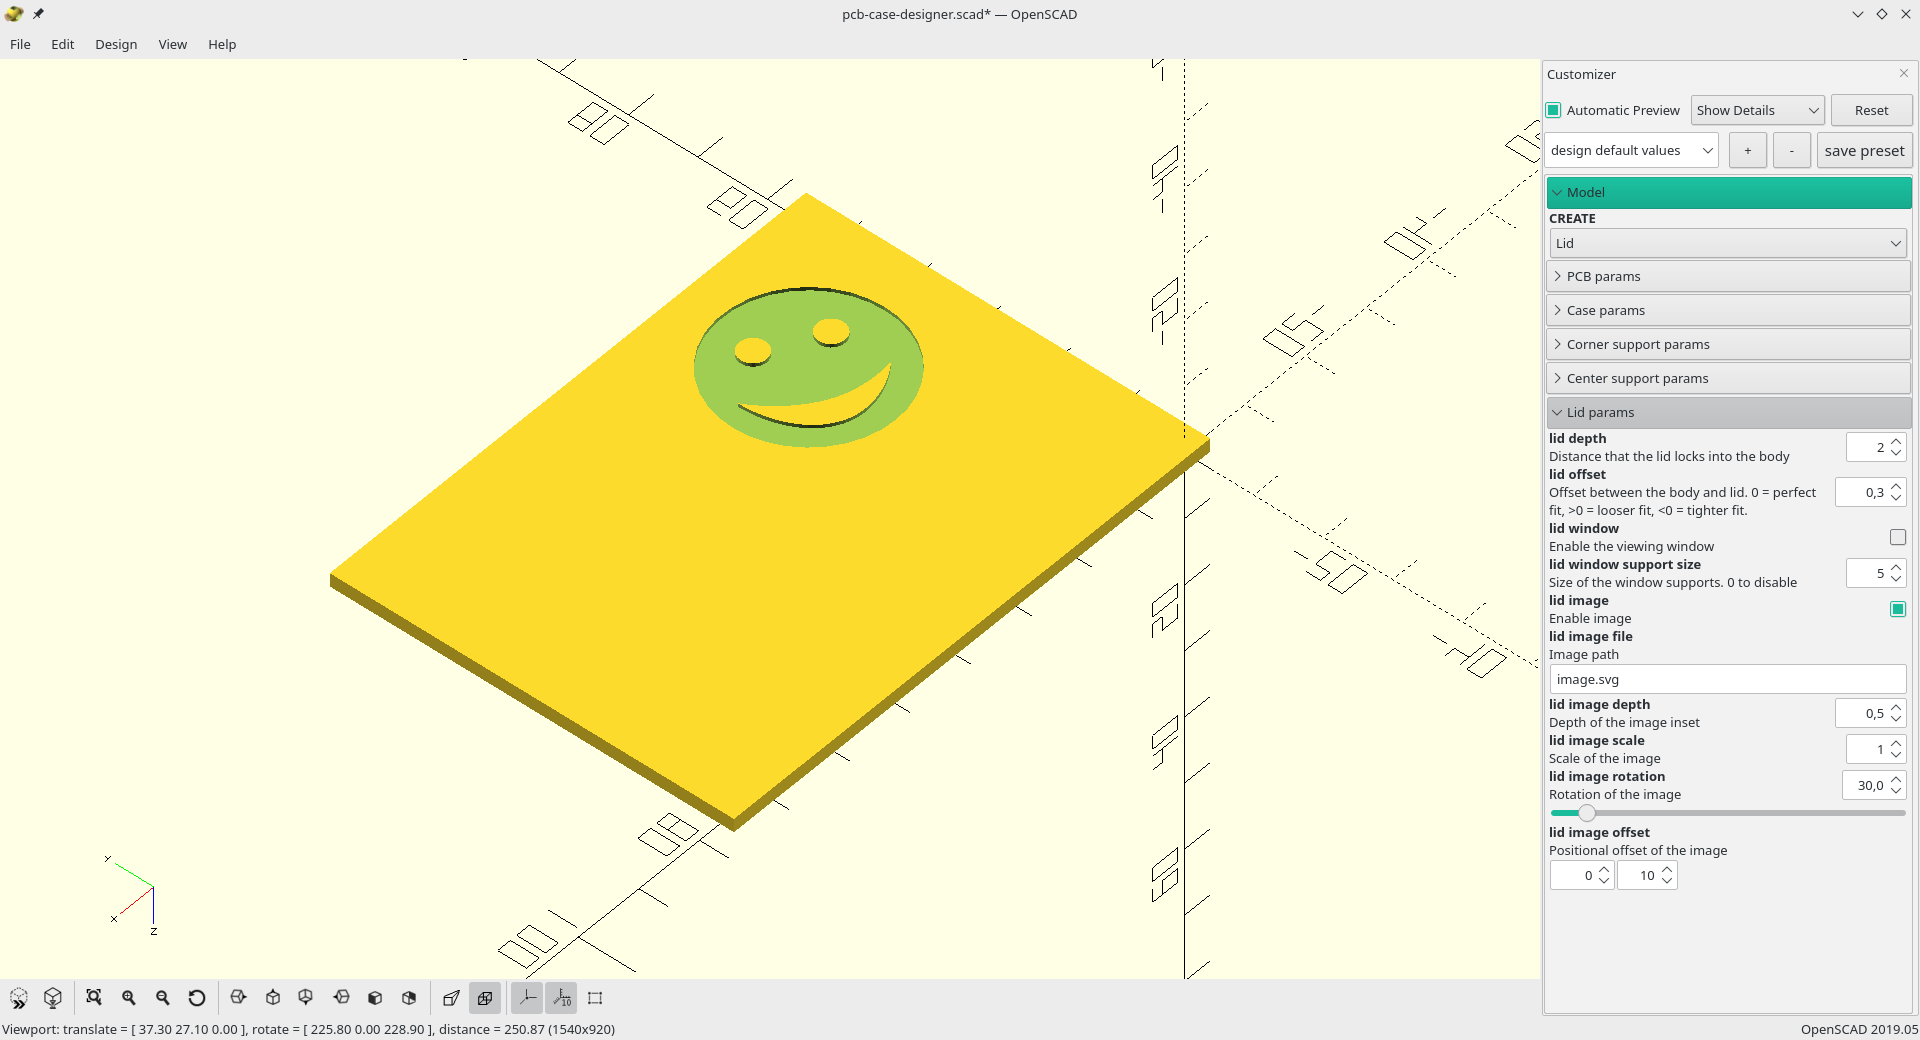
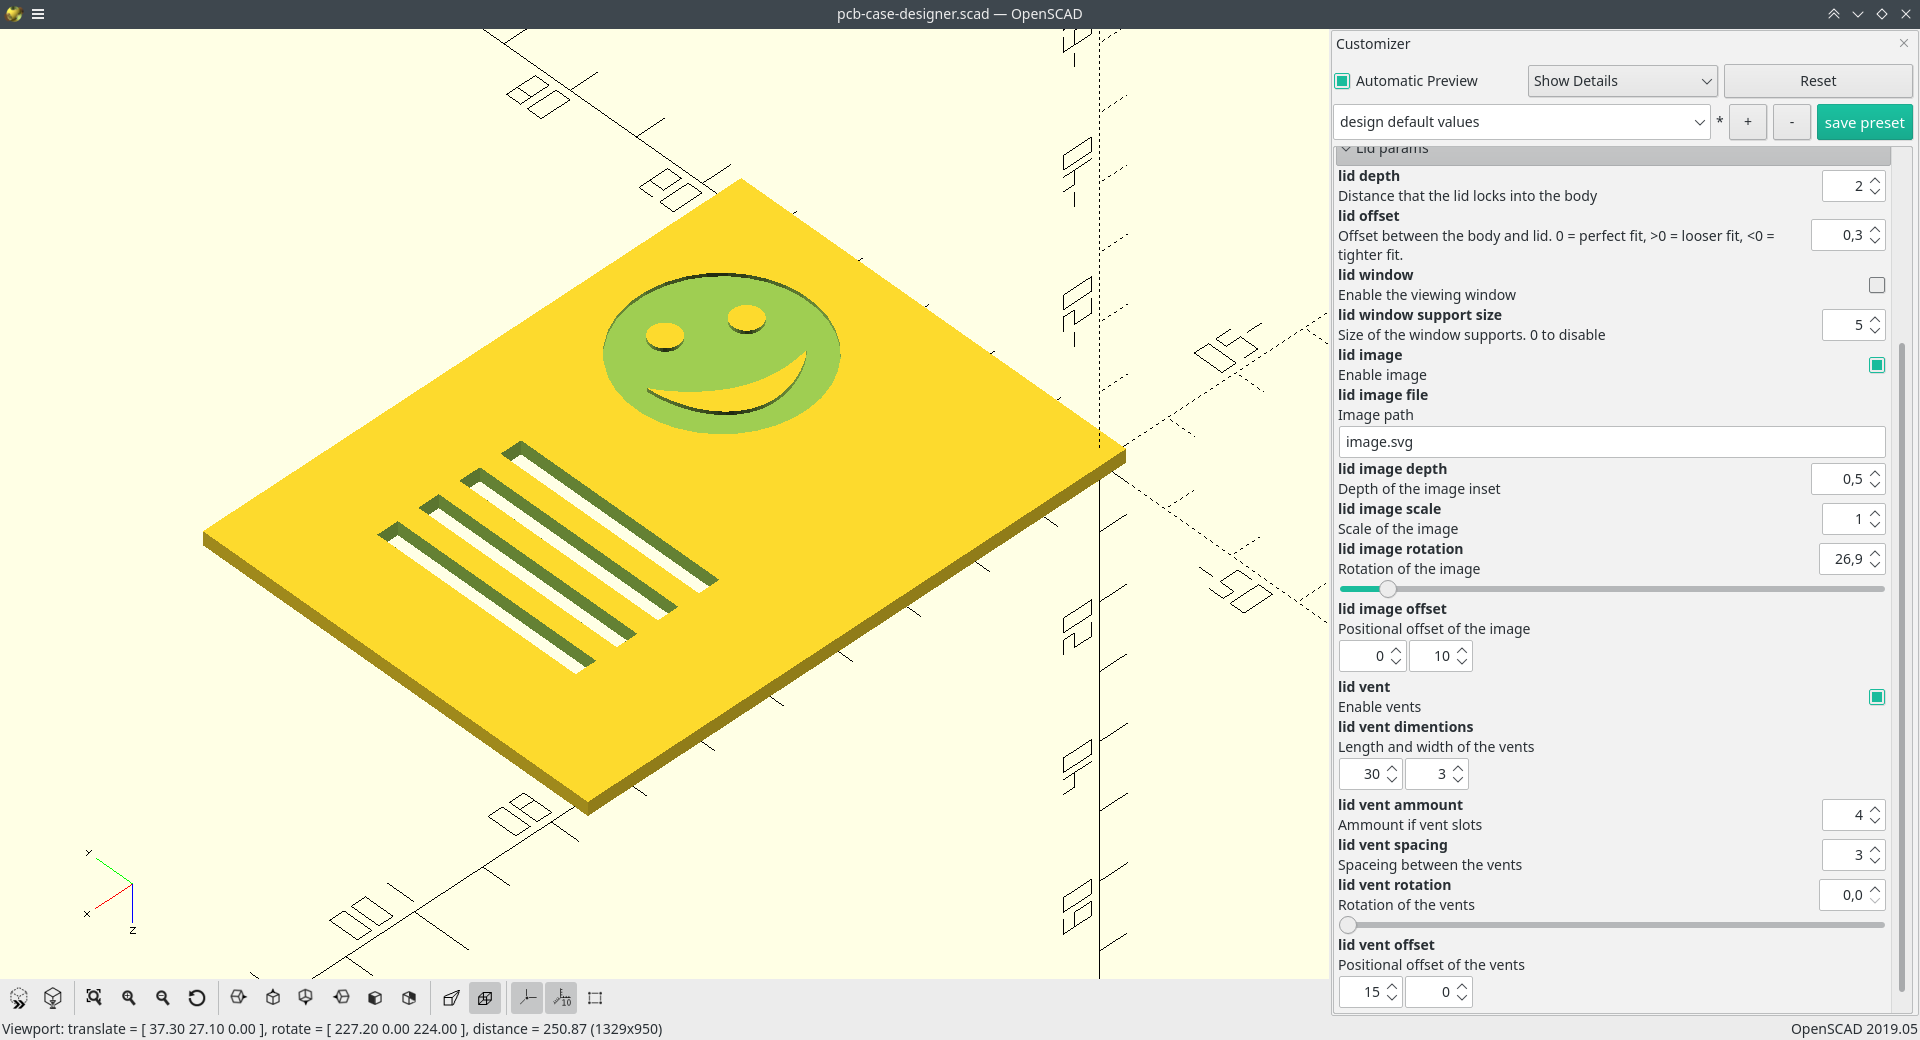
Added vent options

diff --git a/README.md b/README.md
@@ -6,7 +6,7 @@ Created in OpenScad, it allows you to make customizable cases to directly mount 
 * Custom cable openings, circular or rectangular
 * Resizable PCB supports
 * Custom cable routing space
-* Lid customization: debossed SVG image, viewing window (place to mount a piece of plexiglass)
+* Lid customization: debossed SVG image, vents, viewing window (place to mount a piece of plexiglass)
 
 ## Usage
 Download and install [OpenScad](http://www.openscad.org/downloads.html).</br>
